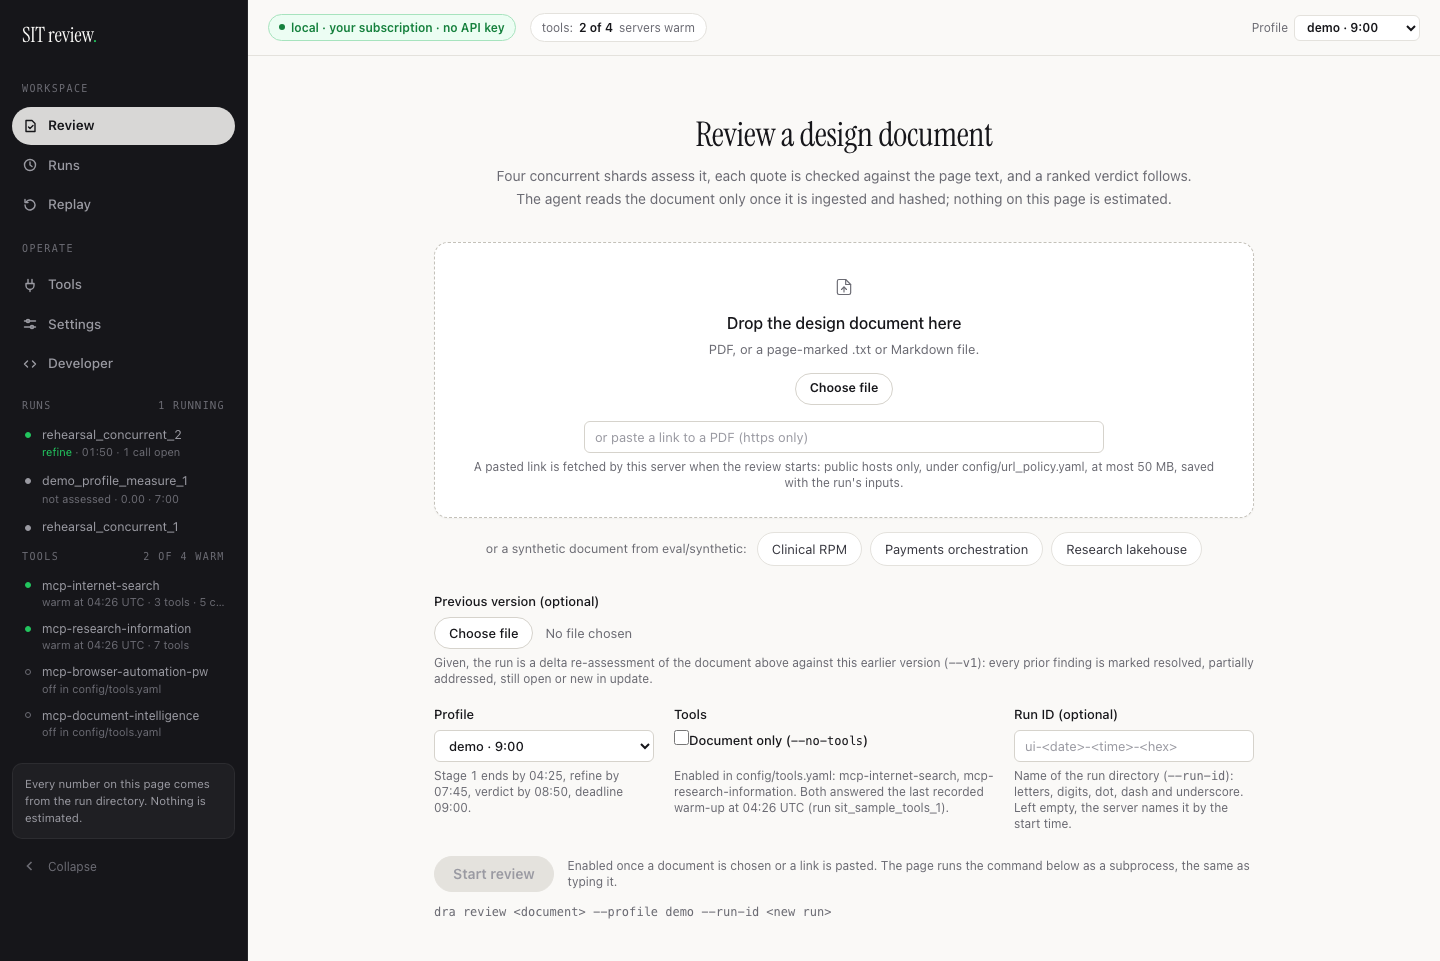
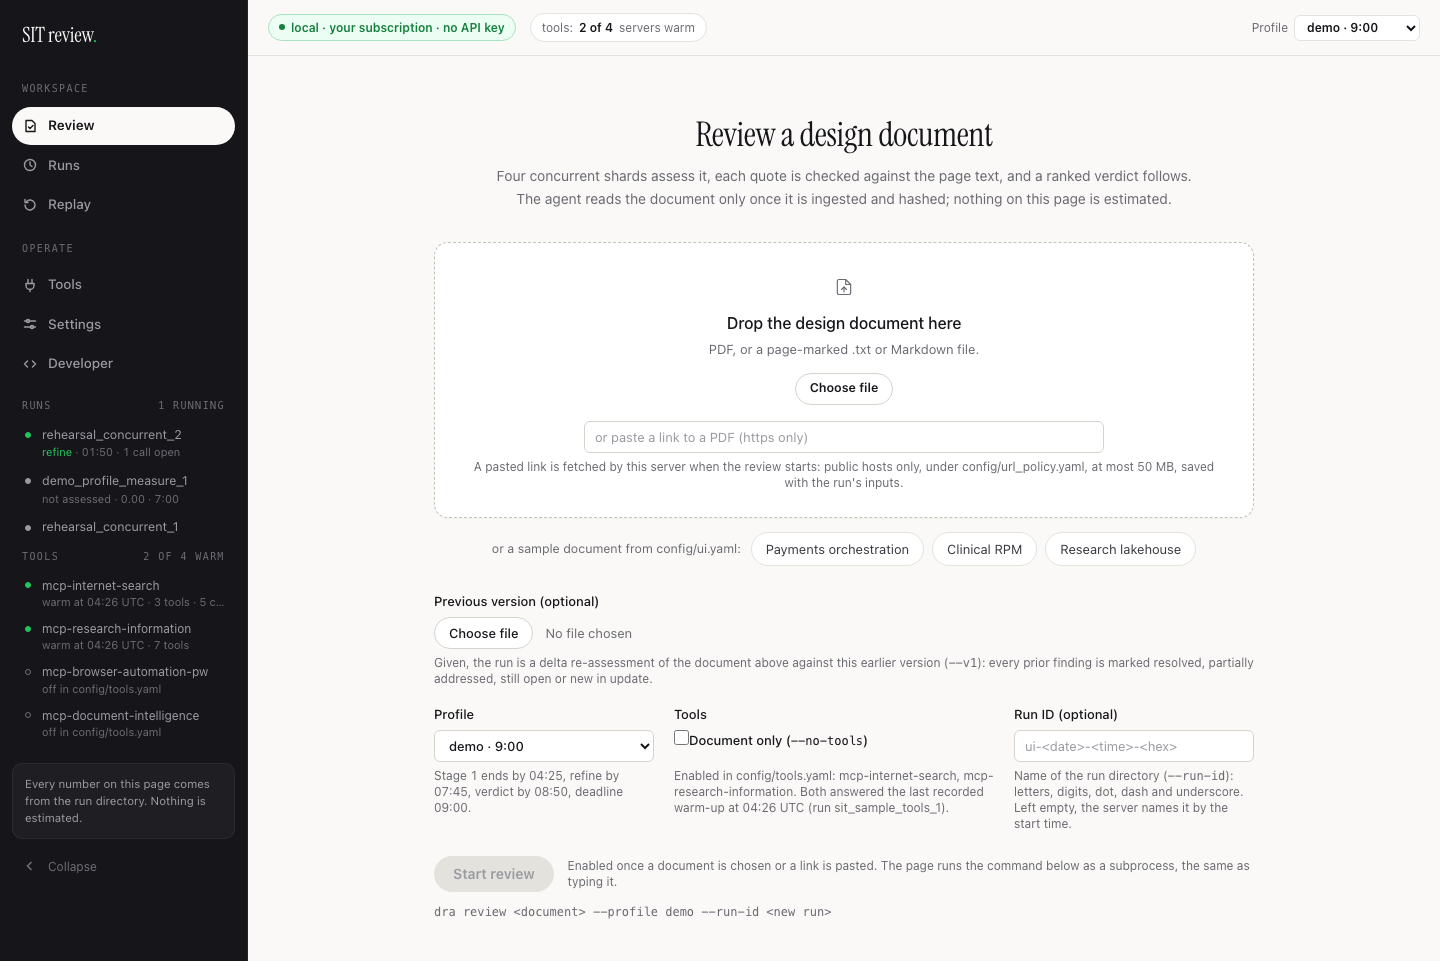
UI v2: the Review page's chips come from a documents list in config/ui.yaml (GET /documents, GET /documents/<name>) instead of a path inside the agent package, which the eval isolation guard forbids; a chip fills the form and never starts a run, tested in the browser; pictures reshot

Changed region(s): [[0.3438, 0.5619, 0.8125, 0.5931], [0.0, 0.0937, 0.1875, 0.1561]]

diff --git a/agent/sit_review_agent/ui/static/app.js b/agent/sit_review_agent/ui/static/app.js
@@ -47,7 +47,7 @@ async function api(url, opts) {
   return body;
 }
 
-const S = { meta: null, runId: null, es: null, model: null, info: null, page: "review", runs: [], tools: null, profile: null, synthetic: null };
+const S = { meta: null, runId: null, es: null, model: null, info: null, page: "review", runs: [], tools: null, profile: null, samples: null };
 const PAGES = ["review", "runs", "replay", "tools", "settings", "developer"];
 const RAIL_KEY = "navrail-collapsed";
 
@@ -242,20 +242,20 @@ async function showDrop() {
     }
   });
   refresh();
-  // The synthetic documents as chips: a chip fetches the file from this server and fills the form with it
-  // (the same path as a drop); it never submits. The run starts only with the Start review button.
-  if (!S.synthetic) S.synthetic = (await api("/synthetic")).items;
+  // The sample documents of config/ui.yaml as chips: a chip fetches the file from this server and fills the form
+  // with it (the same path as a drop); it never submits. The run starts only with the Start review button.
+  if (!S.samples) S.samples = (await api("/documents")).items;
   const starters = $("starters");
   if (!starters) return;
-  for (const item of S.synthetic) {
+  for (const item of S.samples) {
     starters.append(h("button", { class: "starter", type: "button", "data-file": item.file, "aria-pressed": "false", title: item.path, text: item.label, onclick: async (e) => {
       const chip = e.currentTarget;
       chip.disabled = true;
       try {
-        const res = await fetch("/synthetic/" + encodeURIComponent(item.name));
+        const res = await fetch("/documents/" + encodeURIComponent(item.name));
         if (!res.ok) throw new Error("HTTP " + res.status);
-        choose(new File([await res.blob()], item.file, { type: "application/pdf" }));
-      } catch (err) { const box = $("start-error"); box.hidden = false; box.textContent = "The synthetic document could not be read: " + err.message; }
+        choose(new File([await res.blob()], item.file, { type: res.headers.get("content-type") || "" }));
+      } catch (err) { const box = $("start-error"); box.hidden = false; box.textContent = "The sample document could not be read: " + err.message; }
       chip.disabled = false;
     } }));
   }
@@ -389,7 +389,7 @@ function showDeveloper() {
     h("dt", { text: "command" }), h("dd", {}, h("div", { class: "cmd", style: "margin:0", text: open.argv || "not recorded (no ui/launch.json and no manifest argv)" })),
     h("dt", { text: "directory" }), h("dd", {}, h("span", { class: "mono", text: meta.runs_dir + "/" + open.run_id })),
     h("dt", { text: "replay" }), h("dd", {}, h("span", { class: "mono", text: "dra replay " + meta.runs_dir_name + "/" + open.run_id })))));
-  app.append(h("div", { class: "cfg" }, h("h2", { text: "Routes this page reads" }), h("div", { class: "notice", text: "GET /meta · GET /runs · GET /runs/<id> · GET /runs/<id>/events (SSE) · GET /runs/<id>/report · GET /runs/<id>/coverage · GET /runs/<id>/outputs · GET /runs/<id>/chat · GET /tools · GET /synthetic. Writes: POST /runs, POST /runs/<id>/stop, POST /runs/<id>/email, POST /runs/<id>/chat, POST /tools/probe, each only on a button." })));
+  app.append(h("div", { class: "cfg" }, h("h2", { text: "Routes this page reads" }), h("div", { class: "notice", text: "GET /meta · GET /runs · GET /runs/<id> · GET /runs/<id>/events (SSE) · GET /runs/<id>/report · GET /runs/<id>/coverage · GET /runs/<id>/outputs · GET /runs/<id>/chat · GET /tools · GET /documents. Writes: POST /runs, POST /runs/<id>/stop, POST /runs/<id>/email, POST /runs/<id>/chat, POST /tools/probe, each only on a button." })));
 }
 
 // ------------------------------------------------------------------ the run, from the event stream

diff --git a/agent/sit_review_agent/ui/static/index.html b/agent/sit_review_agent/ui/static/index.html
@@ -41,7 +41,7 @@
   <main id="app" class="surface"></main>
 </div>
 
-<!-- The Review page: DBSearch's empty state, the drop zone, the synthetic chips and the start form. One primary action (craft 4.5, 5.1). -->
+<!-- The Review page: DBSearch's empty state, the drop zone, the sample-document chips and the start form. One primary action (craft 4.5, 5.1). -->
 <template id="tpl-drop">
   <div class="empty">
     <h1>Review a design document</h1>
@@ -59,7 +59,7 @@
       <div class="micro muted" id="link-help">A pasted link is fetched by this server when the review starts: public hosts only, under config/url_policy.yaml, at most <span id="link-max"></span> MB, saved with the run's inputs.</div>
       <div class="micro error" id="link-error" hidden>Paste one https link to a PDF; other schemes are not fetched.</div>
     </div>
-    <div class="starters" id="starters"><span class="lead">or a synthetic document from eval/synthetic:</span></div>
+    <div class="starters" id="starters"><span class="lead">or a sample document from config/ui.yaml:</span></div>
     <div class="form">
       <div class="field">
         <span class="label">Previous version (optional)</span>

diff --git a/agent/sit_review_agent/ui/server.py b/agent/sit_review_agent/ui/server.py
@@ -9,8 +9,8 @@ Routes (design note section 9, W2)::
     POST /tools/probe               the preflight warm-up of the enabled servers, on demand (never on page load)
     GET  /runs                      run directories under --runs-dir, newest first (a running row carries its
                                     stage, run clock and open calls from the last progress.jsonl records)
-    GET  /synthetic                 the synthetic documents offered as chips on the Review page
-    GET  /synthetic/<item>          one of them (``eval/synthetic/<item>/design_v1.pdf``), for the chip to fill the form
+    GET  /documents                 the sample documents of config/ui.yaml, offered as chips on the Review page
+    GET  /documents/<name>          one of them, for the chip to fill the form (never to start a run)
     POST /runs                      start ``dra review`` as a subprocess (multipart upload, or a pasted
                                     https link to a PDF in ``document_url``, fetched by ``ui.fetch``)
     GET  /runs/<id>                 one run's summary and status
@@ -56,10 +56,6 @@ from sit_review_agent.ui.launcher import DOC_SUFFIXES, Launcher, LaunchSpec, new
 STATIC_DIR = Path(__file__).parent / "static"
 MAX_UPLOAD_BYTES = 100 * 1024 * 1024
 FINDING_ID_RE = r"^FND-\d+$"
-#: The synthetic documents offered as chips on the Review page (``eval/synthetic/<item>/``), by their titles.
-SYNTHETIC_FILE = "design_v1.pdf"
-SYNTHETIC_LABELS = {"payments_orchestration": "Payments orchestration", "clinical_rpm": "Clinical RPM",
-                    "research_lakehouse": "Research lakehouse"}
 
 
 class RemoteHostRefused(ValueError):
@@ -121,6 +117,8 @@ class UIState:
     #: no agent configuration to probe with.
     probe: Callable[[], Awaitable[dict[str, Any]]] | None = None
     last_probe: dict[str, Any] | None = None
+    #: The sample documents of ``config/ui.yaml`` ``documents:`` (:func:`load_documents`): the Review page's chips.
+    documents: list[dict[str, Any]] = field(default_factory=list)
 
 
 def _json(data: Any, status: int = 200) -> JSONResponse:
@@ -155,29 +153,6 @@ def build_app(state: UIState) -> Starlette:
     async def list_runs(request: Request) -> Response:
         return _json({"runs": rundata.list_runs(state.runs_dir, alive=state.launcher.alive())})
 
-    def synthetic_dir() -> Path:
-        return state.repo_root / "eval" / "synthetic"
-
-    async def synthetic_list(request: Request) -> Response:
-        """The synthetic documents the Review page offers as chips (``eval/synthetic/<item>/design_v1.pdf``):
-        a chip fills the form with the file and never starts a run."""
-        root = synthetic_dir()
-        items = []
-        for p in sorted(root.iterdir()) if root.is_dir() else []:
-            if p.is_dir() and (p / SYNTHETIC_FILE).is_file() and rundata.RUN_ID_RE.match(p.name):
-                items.append({"name": p.name, "label": SYNTHETIC_LABELS.get(p.name, p.name.replace("_", " ")),
-                              "file": f"{p.name}_{SYNTHETIC_FILE}",
-                              "path": f"eval/synthetic/{p.name}/{SYNTHETIC_FILE}"})
-        return _json({"items": items})
-
-    async def synthetic_pdf(request: Request) -> Response:
-        name = request.path_params["name"]
-        p = synthetic_dir() / name / SYNTHETIC_FILE
-        if not rundata.RUN_ID_RE.match(name) or ".." in name or not p.is_file():
-            return _err(404, "No such synthetic document.")
-        return FileResponse(p, media_type="application/pdf",
-                            headers={"Content-Disposition": f'inline; filename="{name}_{SYNTHETIC_FILE}"'})
-
     async def tools_get(request: Request) -> Response:
         out = rundata.tools_status(state.runs_dir, state.tools)
         out.update(auth_env=state.auth_env, key_present=bool(os.environ.get(state.auth_env, "").strip()),
@@ -196,6 +171,20 @@ def build_app(state: UIState) -> Starlette:
                              "that starts dra ui, then probe again. The page never reads the key.")
         state.last_probe = await state.probe()
         return _json(state.last_probe)
+
+    async def documents_list(request: Request) -> Response:
+        """The sample documents offered as chips on the Review page: a chip fills the form with the file and
+        never starts a run (the run starts only with the Start review button, as every run does)."""
+        return _json({"items": [{k: d[k] for k in ("name", "label", "file", "path")} for d in state.documents]})
+
+    async def document_file(request: Request) -> Response:
+        name = request.path_params["name"]
+        d = next((d for d in state.documents if d["name"] == name), None)
+        if d is None or not Path(d["abspath"]).is_file():
+            return _err(404, "No such sample document.")
+        media = "application/pdf" if d["file"].lower().endswith(".pdf") else "text/plain; charset=utf-8"
+        return FileResponse(d["abspath"], media_type=media,
+                            headers={"Content-Disposition": f'inline; filename="{d["file"]}"'})
 
     async def start_run(request: Request) -> Response:
         if not state.can_launch:
@@ -429,8 +418,8 @@ def build_app(state: UIState) -> Starlette:
         Route("/meta", meta),
         Route("/tools", tools_get, methods=["GET"]),
         Route("/tools/probe", tools_probe, methods=["POST"]),
-        Route("/synthetic", synthetic_list, methods=["GET"]),
-        Route("/synthetic/{name}", synthetic_pdf, methods=["GET"]),
+        Route("/documents", documents_list, methods=["GET"]),
+        Route("/documents/{name}", document_file, methods=["GET"]),
         Route("/runs", list_runs, methods=["GET"]),
         Route("/runs", start_run, methods=["POST"]),
         Route("/runs/{run_id}", run_info),
@@ -516,7 +505,32 @@ def build_state(*, runs_dir: Path | None, config_path: Path | None = None,
                    can_launch=can_launch, launch_note=note, profiles=_profiles(config_path), tools=tools,
                    commit=_git_commit(root), smtp=smtp, smtp_detail=smtp_detail, url_policy=cfg.url_policy,
                    backend=cfg.agent.llm.backend, model=cfg.agent.model, config_files=files,
-                   auth_env=cfg.tools.auth_env, probe=probe_with(cfg))
+                   auth_env=cfg.tools.auth_env, probe=probe_with(cfg),
+                   documents=load_documents(Path(cfg.config_root) / "ui.yaml", root))
+
+
+def load_documents(path: Path, repo_root: Path) -> list[dict[str, Any]]:
+    """``documents:`` of ``config/ui.yaml``: ``label`` and ``path`` (relative to the repository root) per
+    sample document. An entry whose file is missing or is not a reviewable document is left out. The file the
+    form will carry is named after the label and the file (``payments_orchestration_design_v1.pdf``)."""
+    import yaml
+
+    try:
+        doc = yaml.safe_load(path.read_text(encoding="utf-8")) or {}
+    except (OSError, yaml.YAMLError):
+        return []
+    out: list[dict[str, Any]] = []
+    for i, d in enumerate(doc.get("documents") or [] if isinstance(doc, dict) else []):
+        if not isinstance(d, dict) or not d.get("label") or not d.get("path"):
+            continue
+        p = Path(str(d["path"]))
+        p = p if p.is_absolute() else repo_root / p
+        if not p.is_file() or p.suffix.lower() not in DOC_SUFFIXES:
+            continue
+        slug = safe_name(str(d["label"]).lower().replace(" ", "_"), "document")
+        out.append({"name": f"doc-{i + 1}", "label": str(d["label"]), "file": safe_name(f"{slug}_{p.name}"),
+                    "path": str(d["path"]), "abspath": str(p)})
+    return out
 
 
 def probe_with(cfg: Any) -> Callable[[], Awaitable[dict[str, Any]]]:

diff --git a/tests/test_ui_honesty.py b/tests/test_ui_honesty.py
@@ -180,8 +180,12 @@ def served(tmp_path: Path):
         probes.append(1)
         return {"at": "", "servers": [], "auth_failed": False, "lines": []}
 
+    sample_pdf = REPO / "eval" / "synthetic" / "payments_orchestration" / "design_v1.pdf"
     state = UIState(runs_dir=runs.resolve(), repo_root=REPO, launcher=Launcher(repo_root=REPO), chat_client=None,
-                    profiles=[], tools=list(SERVERS), probe=probe)  # type: ignore[arg-type]
+                    profiles=[], tools=list(SERVERS), probe=probe,
+                    documents=[{"name": "doc-1", "label": "Payments orchestration", "file": "payments_design_v1.pdf",
+                                "path": "eval/synthetic/payments_orchestration/design_v1.pdf",
+                                "abspath": str(sample_pdf)}])  # type: ignore[arg-type]
     state.probes = probes  # type: ignore[attr-defined]
     port = _free_port()
     server = uvicorn.Server(uvicorn.Config(build_app(state), host="127.0.0.1", port=port, log_level="warning"))
@@ -313,7 +317,13 @@ def test_the_rail_shows_the_stream_state_and_the_recorded_servers_and_never_prob
 
         # 3. No page load probes: the Review page, a run, a review and the Tools page send no POST at all.
         page.goto(base + "/")
-        page.wait_for_selector("#doc-link")
+        page.wait_for_selector(".starter")
+        # A chip fills the form with the file and never starts a run (no POST below).
+        page.click(".starter")
+        page.wait_for_function("document.querySelector('#doc-chosen').textContent === 'payments_design_v1.pdf'")
+        assert page.locator("#start-btn").is_enabled()
+        assert "review runs/<new run>/ui/input/payments_design_v1.pdf " in page.locator("#cmd-preview").inner_text()
+        assert page.locator(".starter").get_attribute("aria-pressed") == "true"
         page.goto(base + f"/?run={REHEARSAL.name}")
         page.wait_for_selector("#chat-budget")
         page.goto(base + "/?page=tools")

diff --git a/tests/test_ui_server.py b/tests/test_ui_server.py
@@ -495,3 +495,28 @@ def test_the_probe_runs_only_with_the_key_in_the_environment(tmp_path: Path, mon
     st.probe = None
     st.tools = list(SERVERS)
     assert client.post("/tools/probe").status_code == 409 and calls == [1]
+
+
+def test_the_sample_documents_come_from_ui_yaml_and_missing_files_are_left_out(tmp_path: Path) -> None:
+    from sit_review_agent.ui.server import load_documents
+
+    pdf = REPO / "eval" / "synthetic" / "payments_orchestration" / "design_v1.pdf"
+    (tmp_path / "ui.yaml").write_text(
+        "email:\n  host: ''\ndocuments:\n"
+        f"  - label: Payments orchestration\n    path: {pdf.relative_to(REPO)}\n"
+        "  - label: Missing\n    path: eval/nowhere/design_v1.pdf\n"
+        "  - label: Not a document\n    path: pyproject.toml\n"
+        "  - path: no-label.pdf\n", encoding="utf-8")
+    docs = load_documents(tmp_path / "ui.yaml", REPO)
+    assert [d["label"] for d in docs] == ["Payments orchestration"]
+    assert docs[0] == {"name": "doc-1", "label": "Payments orchestration", "path": str(pdf.relative_to(REPO)),
+                       "file": "payments_orchestration_design_v1.pdf", "abspath": str(pdf)}
+    assert load_documents(tmp_path / "absent.yaml", REPO) == []
+    st = make_state(tmp_path)
+    st.documents = docs
+    client = TestClient(build_app(st))
+    assert client.get("/documents").json() == {"items": [{k: docs[0][k] for k in ("name", "label", "file", "path")}]}
+    res = client.get("/documents/doc-1")
+    assert res.status_code == 200 and res.headers["content-type"] == "application/pdf"
+    assert res.content == pdf.read_bytes()
+    assert client.get("/documents/doc-2").status_code == 404
